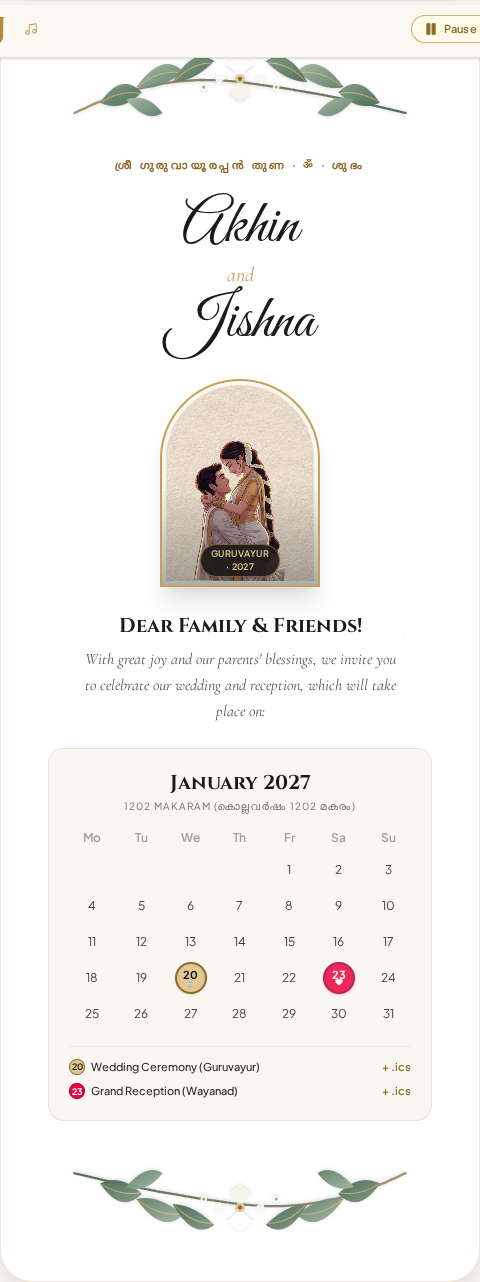
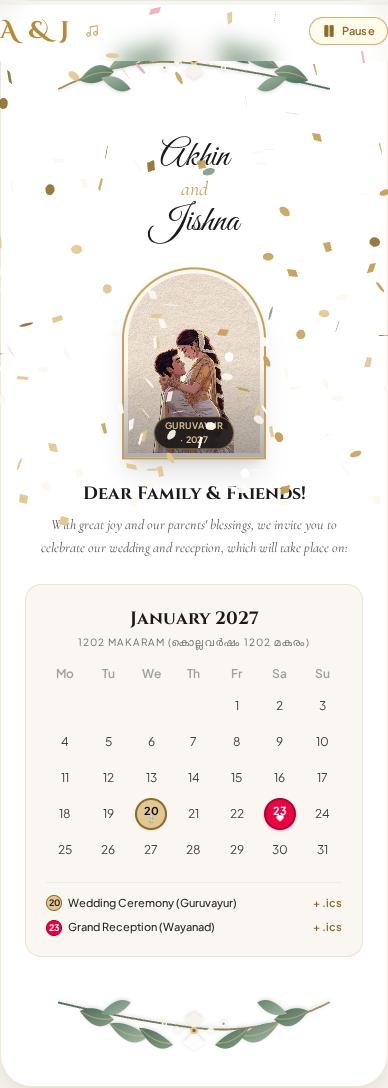
refactor: simplify layout and remove invocations
- Remove traditional invocations from UI and headers
- Clean up navigation by removing unused envelope toggle
- Update metadata description for better invitation clarity

diff --git a/index.html b/index.html
@@ -4,9 +4,8 @@
     <meta charset="UTF-8" />
     <meta name="viewport" content="width=device-width, initial-scale=1.0" />
     <title>Akhin & Jishna Wedding Invitation</title>
-    <meta name="description" content="Traditional Kerala wedding invitation & reception website for Akhin Kishor and Jishna Vijayan with botanical invitation cards, ceremony video, background music, calendar, countdown, and venue directions." />
-    <meta property="og:title" content="Akhin & Jishna Wedding Invitation" />
-    <meta property="og:description" content="Traditional Kerala wedding invitation & reception website for Akhin Kishor and Jishna Vijayan with botanical invitation cards, ceremony video, background music, calendar, countdown, and venue directions." />
+    <meta name="description" content="You are invited to the wedding of Akhin Kishor & Jishna Vijayan on Wednesday, 20 January 2027 at Guruvayur, followed by a reception on 23 January. Tap to open your invitation 💌" />
+
     <!-- Favicon & App Icons -->
     <link rel="icon" type="image/png" sizes="32x32" href="/favicon.png" />
     <link rel="icon" type="image/svg+xml" href="/favicon.svg" />
@@ -15,7 +14,7 @@
     <!-- OpenGraph Social Metadata -->
     <meta property="og:type" content="website" />
     <meta property="og:title" content="Akhin & Jishna Wedding Invitation" />
-    <meta property="og:description" content="Traditional Kerala wedding invitation & reception website for Akhin Kishor and Jishna Vijayan with botanical invitation cards, ceremony video, background music, calendar, countdown, and venue directions." />
+    <meta property="og:description" content="You are invited to the wedding of Akhin Kishor & Jishna Vijayan on Wednesday, 20 January 2027 at Guruvayur, followed by a reception on 23 January. Tap to open your invitation 💌" />
     <meta property="og:image" content="/og-cover.png" />
     <meta property="og:image:width" content="1200" />
     <meta property="og:image:height" content="630" />
@@ -25,7 +24,7 @@
     <!-- Twitter / X Cards -->
     <meta name="twitter:card" content="summary_large_image" />
     <meta name="twitter:title" content="Akhin & Jishna Wedding Invitation" />
-    <meta name="twitter:description" content="Traditional Kerala wedding invitation & reception website for Akhin Kishor and Jishna Vijayan (Guruvayur & Wayanad)." />
+    <meta name="twitter:description" content="You are invited to the wedding of Akhin Kishor & Jishna Vijayan on Wednesday, 20 January 2027 at Guruvayur, followed by a reception on 23 January. Tap to open your invitation 💌" />
     <meta name="twitter:image" content="/og-cover.png" />
 
     <!-- Google Fonts -->
@@ -71,7 +70,7 @@
         "/og-cover.png",
         "/hero-screenshot.png"
       ],
-      "description": "Traditional Kerala Hindu wedding ceremony of Akhin Kishor & Jishna Vijayan at Guruvayur Temple followed by celebratory reception at Wayanad."
+      "description": "You are invited to the wedding of Akhin Kishor & Jishna Vijayan on Wednesday, 20 January 2027 at Guruvayur, followed by a reception on 23 January. Tap to open your invitation 💌"
     }
     </script>
   </head>

diff --git a/scripts/capture-assets.js b/scripts/capture-assets.js
@@ -1,11 +1,27 @@
 async (page) => {
+  // 1. Capture OG Cover
   await page.setViewportSize({ width: 1200, height: 630 });
   await page.goto('file:///app/applet/public/og-cover.html', { waitUntil: 'networkidle' });
-  await page.waitForTimeout(1000);
+  await page.waitForTimeout(600);
   await page.screenshot({ path: 'public/og-cover.png' });
 
+  // 2. Capture Favicon
   await page.setViewportSize({ width: 128, height: 128 });
   await page.goto('file:///app/applet/public/favicon-render.html', { waitUntil: 'networkidle' });
   await page.waitForTimeout(500);
   await page.screenshot({ path: 'public/favicon.png' });
+
+  // 3. Capture Updated Hero Section freshly
+  await page.setViewportSize({ width: 420, height: 900 });
+  await page.goto('http://localhost:3000/?t=' + Date.now(), { waitUntil: 'networkidle' });
+  await page.waitForTimeout(500);
+  const openBtn = page.locator('text=Tap to Open Invitation');
+  if (await openBtn.count() > 0) {
+    await openBtn.click();
+    await page.waitForTimeout(1800);
+  }
+  const heroCard = page.locator('main section').first();
+  if (await heroCard.count() > 0) {
+    await heroCard.screenshot({ path: 'public/hero-screenshot.png' });
+  }
 }

diff --git a/src/components/Navbar.tsx b/src/components/Navbar.tsx
@@ -1,8 +1,8 @@
 import React, { useState, useEffect } from 'react';
-import { Mail, Play, Pause, Music } from 'lucide-react';
+import { Play, Pause, Music } from 'lucide-react';
 
 interface NavbarProps {
-  onReopenEnvelope: () => void;
+  onReopenEnvelope?: () => void;
   isPlaying?: boolean;
   onToggleMusic?: () => void;
 }
@@ -85,16 +85,6 @@ export const Navbar: React.FC<NavbarProps> = ({
               )}
             </button>
           )}
-
-          {/* Envelope Reopen Button */}
-          <button
-            onClick={onReopenEnvelope}
-            className="px-3.5 py-1.5 rounded-full bg-white/90 hover:bg-white text-stone-800 border border-[#E8DFC8] text-xs font-medium tracking-wide shadow-xs transition-all active:scale-95 cursor-pointer flex items-center gap-1.5"
-            title="Re-open wedding envelope"
-          >
-            <Mail className="w-3.5 h-3.5 text-[#C5A059]" />
-            <span className="hidden xs:inline">Envelope</span>
-          </button>
         </div>
       </div>
     </nav>

diff --git a/src/components/EnvelopeModal.tsx b/src/components/EnvelopeModal.tsx
@@ -146,9 +146,6 @@ export const EnvelopeModal: React.FC<EnvelopeModalProps> = ({ isOpen, onOpenInvi
                 transition={{ duration: 0.9, ease: 'easeOut' }}
                 className="absolute inset-x-4 top-4 bottom-3 bg-[#FAF7F2] rounded-xl shadow-lg border border-[#E8DFC8] p-4 flex flex-col items-center justify-center text-center z-20"
               >
-                <div className="text-[9px] tracking-widest text-[#8C6A28] font-semibold uppercase">
-                  ശ്രീ ഗുരുവായൂരപ്പൻ തുണ · ॐ
-                </div>
                 <div className="font-pinyon text-2xl sm:text-3xl text-[#996515] my-0.5">
                   Save the Date
                 </div>

diff --git a/src/components/InvitationCards.tsx b/src/components/InvitationCards.tsx
@@ -100,11 +100,6 @@ export const InvitationCards: React.FC = () => {
         {/* Botanical watercolor top branch */}
         <BotanicalBranch className="-mt-2 mb-2" />
 
-        {/* Traditional Auspicious Invocation */}
-        <div className="text-[11px] tracking-[0.25em] text-[#8C6A28] font-semibold uppercase mb-2">
-          ശ്രീ ഗുരുവായൂരപ്പൻ തുണ · ॐ · ശുഭം
-        </div>
-
         {/* Calligraphy Couple Names (matching cursive reference) */}
         <div className="py-2">
           <h1 className="font-script text-4xl sm:text-5xl md:text-6xl text-stone-900 leading-tight">

diff --git a/src/components/Hero.tsx b/src/components/Hero.tsx
@@ -39,7 +39,6 @@ export const Hero: React.FC<HeroProps> = ({ onScrollToSection }) => {
       <div className="relative z-10 max-w-3xl mx-auto flex flex-col items-center">
         <div className="flex items-center gap-3 text-xs tracking-[0.25em] text-[#8C6A28] font-medium uppercase mb-3">
           <span className="w-8 h-[1px] bg-[#C5A059]/60" />
-          <span>ശ്രീ ഗുരുവായൂരപ്പൻ തുണ · ॐ · ശുഭം</span>
           <span className="w-8 h-[1px] bg-[#C5A059]/60" />
         </div>
 

diff --git a/public/og-cover.html b/public/og-cover.html
@@ -235,8 +235,6 @@
     <div class="container">
       <!-- Left Details Column -->
       <div class="left-col">
-        <div class="invocation">ശ്രീ ഗുരുവായൂരപ്പൻ തുണ · ॐ · ശുഭം</div>
-
         <div class="monogram-badge">
           <span class="monogram">A & J</span>
           <div class="monogram-divider"></div>
